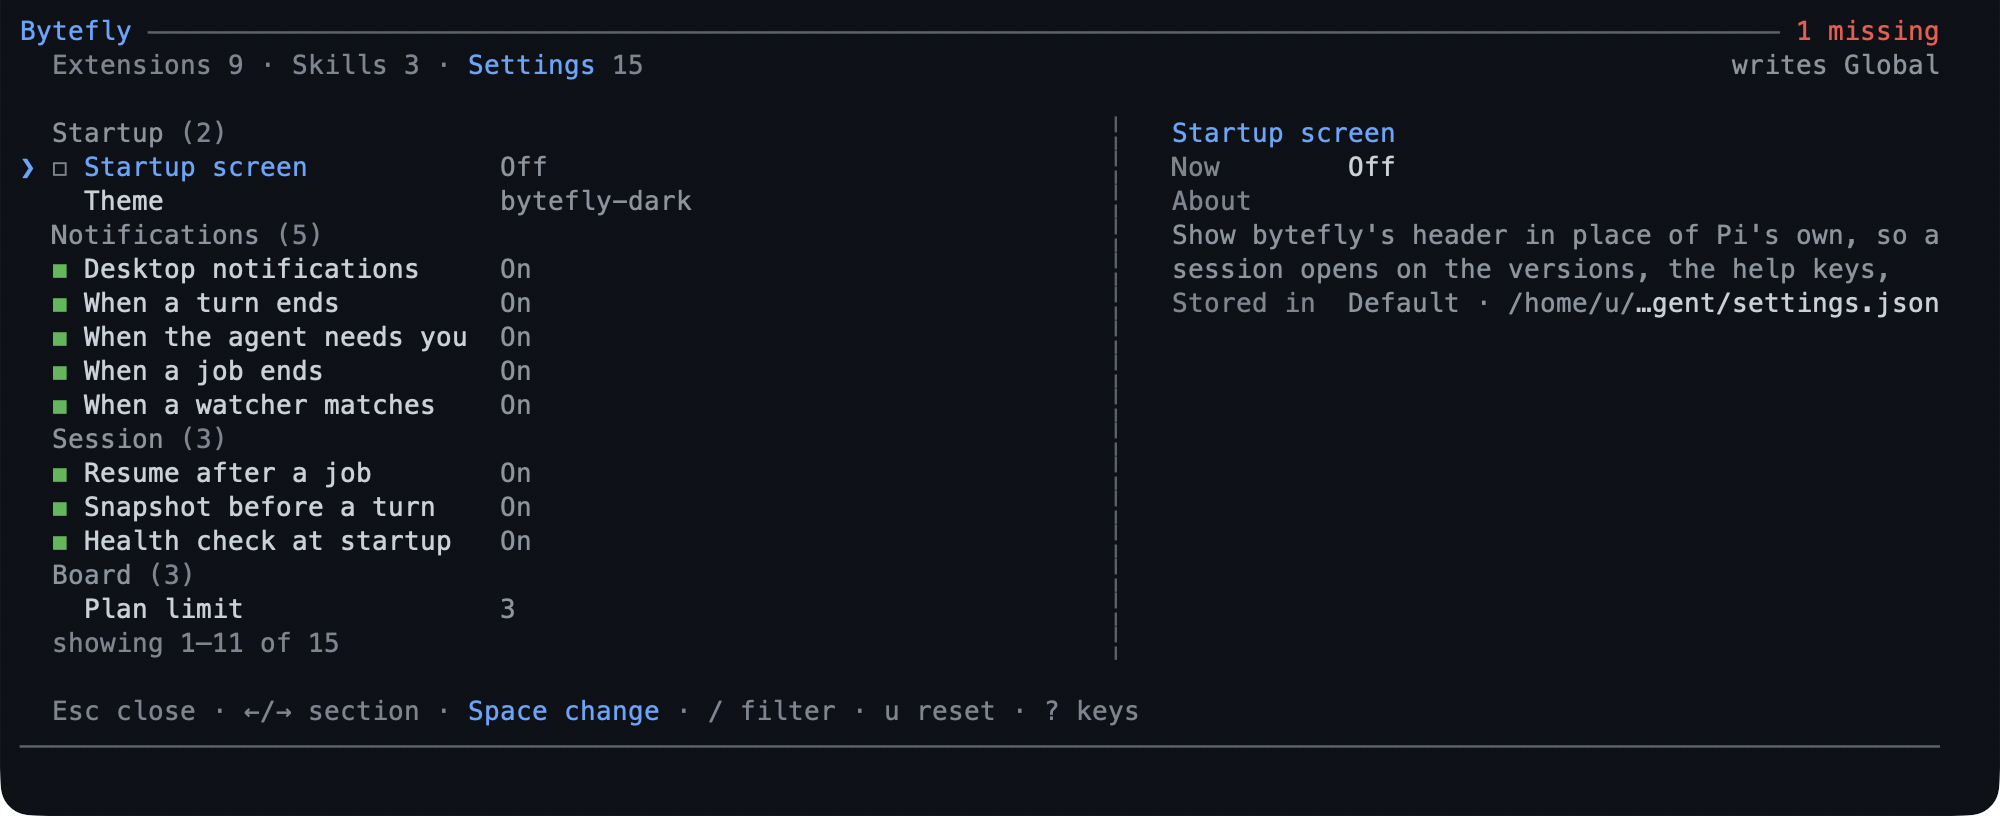
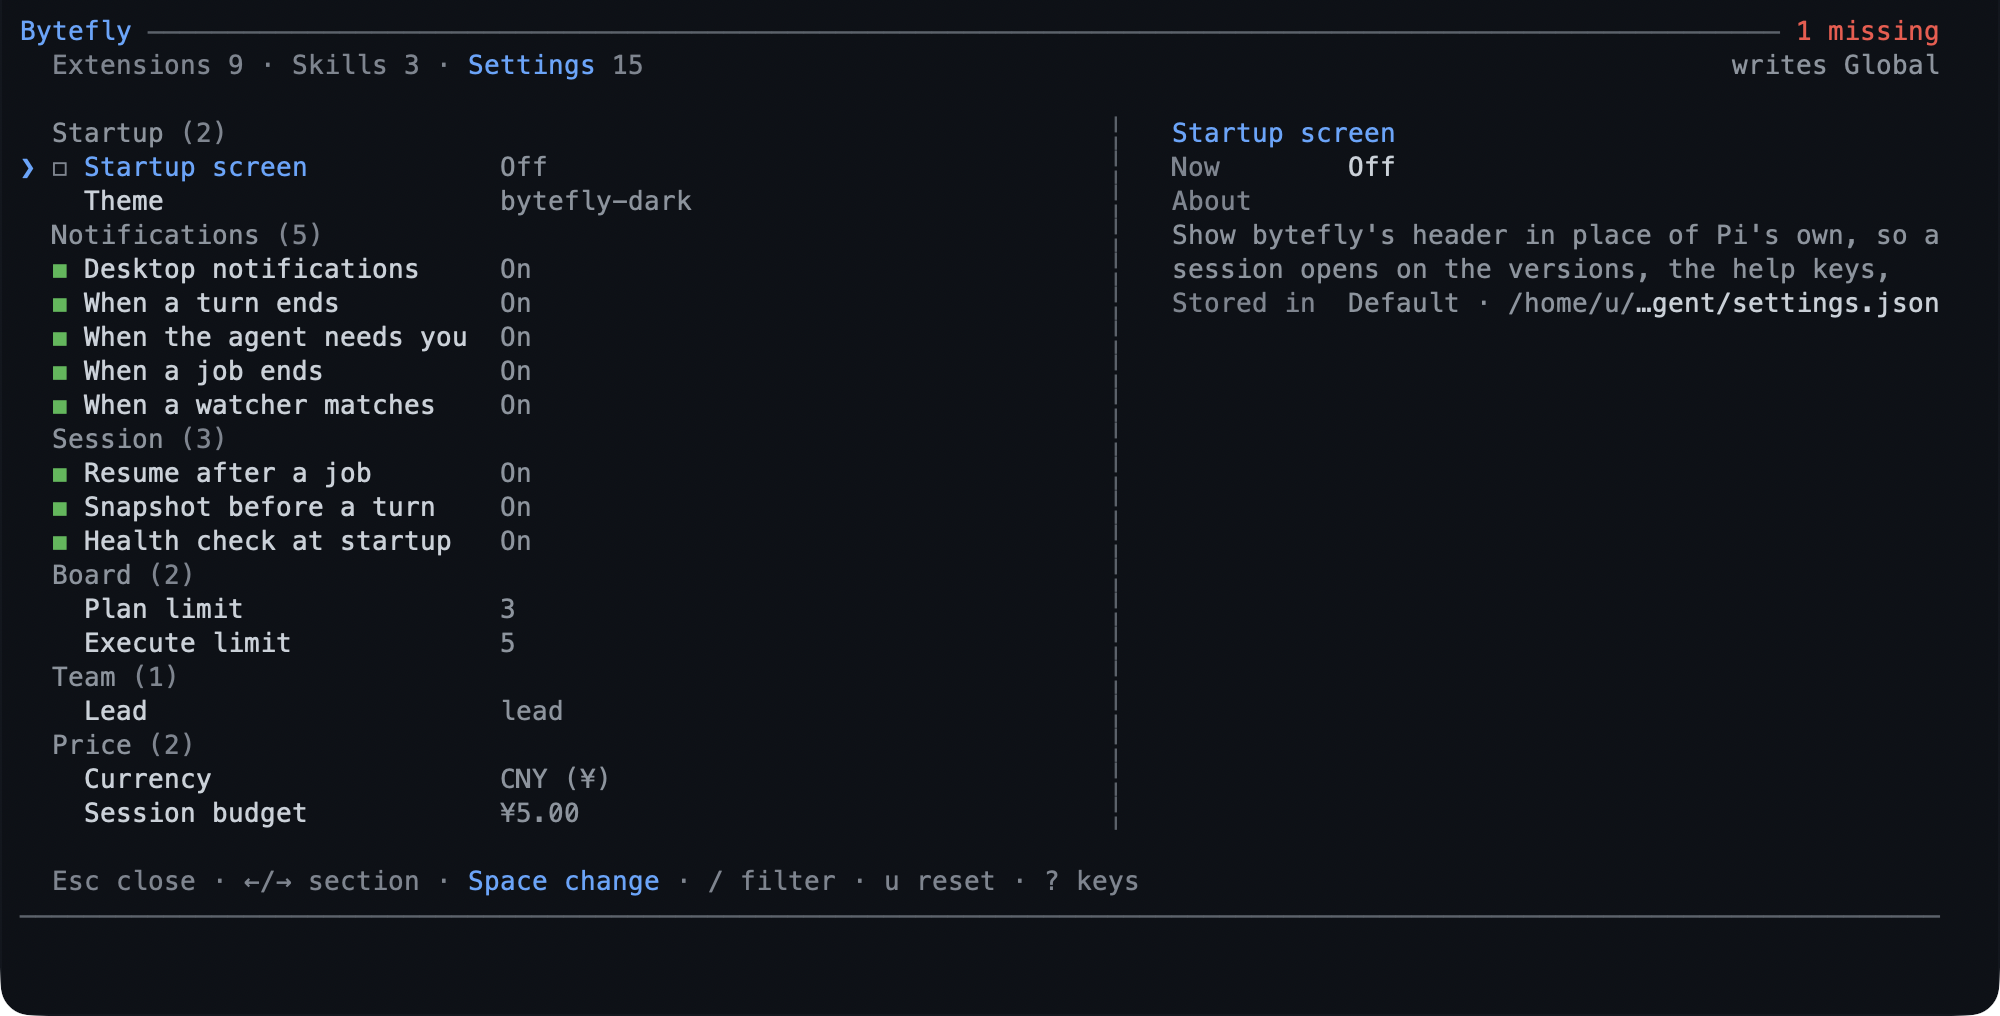
feat(bytefly): group the Lead row under a Team heading in /bytefly settings
The name the board's two gates take is the team's, not a card's, so the row
moves out of Board: Startup (2), Notifications (5), Session (3), Board (2),
Team (1), Price (2). The cap stays at fifteen rows and the catalogue now wants
a 29-row terminal to be seen whole.

The extension page's settings table lists all fifteen rows, Board's three
included, and the capture frame is tall enough to show every heading.

diff --git a/extensions/bytefly/panel/settings.ts b/extensions/bytefly/panel/settings.ts
@@ -9,7 +9,7 @@
  * The catalogue is the shortlist a session changes, not the whole document: every
  * row is one a workflow differs on, and each states its own rule so a value the
  * screen accepts is a value the loader keeps. The catalogue order is the screen's
- * order, and it is capped — fifteen rows and their five headings want a 28-row
+ * order, and it is capped — fifteen rows and their six headings want a 29-row
  * terminal, and a shorter one scrolls the list rather than the frame
  * (`settings.test.ts` holds the ceiling); a new row has to displace one. Everything else stays
  * `bytefly.json` — a list (`doctor.skip`), a table (`price.rates`), a schedule
@@ -53,11 +53,12 @@ type SettingKind = "boolean" | "enum" | "text";
 type SettingOrigin = "default" | "global" | "project" | "inherited";
 
 /**
- * The heading a row sits under. The screen draws one heading per group, so twelve
- * rows read as four short lists: what a session starts with, what it tells you
- * about, what it keeps, and what it costs.
+ * The heading a row sits under. The screen draws one heading per group, so fifteen
+ * rows read as six short lists: what a session starts with, what it tells you
+ * about, what it keeps, what its board holds, who signs for the team, and what it
+ * costs.
  */
-export type SettingGroup = "Startup" | "Notifications" | "Session" | "Board" | "Price";
+export type SettingGroup = "Startup" | "Notifications" | "Session" | "Board" | "Team" | "Price";
 
 /** One curated value a row can take. */
 interface SettingOption {
@@ -331,7 +332,7 @@ export const SETTING_ROWS: readonly SettingDescriptor[] = [
 	},
 	{
 		id: "board.lead",
-		group: "Board",
+		group: "Team",
 		label: "Lead",
 		description:
 			"The team name whose signature approves a contract and spot-checks the work; a card's holder never signs.",

diff --git a/extensions/bytefly/panel/component-settings.test.ts b/extensions/bytefly/panel/component-settings.test.ts
@@ -302,20 +302,20 @@ describe("PanelComponent settings frame", () => {
 	});
 
 	test("scrolls the list on a 24-row terminal, saying how much it shows", () => {
-		// Fifteen rows and five headings are taller than a 24-row terminal, which is the trade the
+		// Fifteen rows and six headings are taller than a 24-row terminal, which is the trade the
 		// catalogue's cap states: the screen keeps its frame and scrolls the list.
 		const { component } = buildPanel({ items: [], section: "settings", rows: 24 });
 		const lines = component.render(96);
 
 		expect(lines).toHaveLength(24);
-		expect(lines.join("\n")).toContain("showing 1–13 of 15");
+		expect(lines.join("\n")).toContain("showing 1–12 of 15");
 	});
 
 	test("fits the whole catalogue on a terminal tall enough for it", () => {
 		const { component } = buildPanel({ items: [], section: "settings", rows: 40 });
 		const lines = component.render(96);
 
-		expect(lines).toHaveLength(26);
+		expect(lines).toHaveLength(27);
 		expect(lines.join("\n")).not.toContain("showing");
 		expect(lines.join("\n")).toContain("Session budget");
 	});

diff --git a/test/settings-coverage.test.ts b/test/settings-coverage.test.ts
@@ -440,11 +440,12 @@ const STATED: readonly { file: string; phrase: string }[] = [
 	{ file: "docs/extensions/bytefly.md", phrase: `the ${count(PROJECT_ROW_COUNT)} \`bytefly.json\` rows` },
 	{ file: "docs/extensions/bytefly.md", phrase: `at ${count(ROW_COUNT)} rows so the screen fits` },
 	{ file: "docs/extensions/bytefly.md", phrase: `catalogue: the ${count(ROW_COUNT)} descriptors` },
-	{ file: "docs/configuration.md", phrase: `${count(ROW_COUNT)} rows under five headings` },
+	{ file: "docs/configuration.md", phrase: `${count(ROW_COUNT)} rows under six headings` },
 ];
 
 /** The spellings those sentences carried before the last row landed, or before a reword. */
 const STALE: readonly string[] = [
+	`${count(ROW_COUNT)} rows under five headings`,
 	`${count(ROW_COUNT)} flat rows`,
 	`${count(ROW_COUNT - 1)} preferences`,
 	`${count(ROW_COUNT - 1)} flat rows`,

diff --git a/extensions/bytefly/panel/layout.test.ts b/extensions/bytefly/panel/layout.test.ts
@@ -44,7 +44,7 @@ describe("panel entries", () => {
 		expect(entries[3] && entryKey(entries[3])).toBe("auto:/agent/extensions/a.ts");
 	});
 
-	test("groups the Settings list under its five headings, in catalogue order", () => {
+	test("groups the Settings list under its six headings, in catalogue order", () => {
 		const entries = settingEntries(settingViews(settingsSnapshot(), "global"));
 
 		expect(entries.filter((entry) => entry.kind === "group").map((entry) => entry.label)).toEqual([
@@ -52,6 +52,7 @@ describe("panel entries", () => {
 			"Notifications",
 			"Session",
 			"Board",
+			"Team",
 			"Price",
 		]);
 		expect(entries.filter((entry) => entry.kind === "setting")).toHaveLength(15);

diff --git a/scripts/screens/index.ts b/scripts/screens/index.ts
@@ -346,8 +346,10 @@ export const SCREENS: Record<string, Screen> = {
 	"bytefly-settings": {
 		asset: "bytefly-settings",
 		title: "π - my-pi-agent · /bytefly settings",
-		bounds: { left: 80, top: 80, right: 1080, bottom: 520 },
-		size: { width: 120, rows: 22 },
+		// Tall enough for the whole catalogue: six headings and their rows, so the picture
+		// shows every group rather than a list cut at the fold.
+		bounds: { left: 80, top: 80, right: 1080, bottom: 620 },
+		size: { width: 120, rows: 27 },
 		render: (width, rows) => {
 			// The Settings section over the real catalogue: no probe, no write.
 			return new PanelComponent({

diff --git a/extensions/bytefly/panel/settings.test.ts b/extensions/bytefly/panel/settings.test.ts
@@ -44,7 +44,7 @@ describe("settings catalogue", () => {
 
 	test("groups the rows as what a session starts with, tells you, keeps, and costs", () => {
 		expect(new Set(SETTING_ROWS.map((entry) => entry.group))).toEqual(
-			new Set(["Startup", "Notifications", "Session", "Board", "Price"]),
+			new Set(["Startup", "Notifications", "Session", "Board", "Team", "Price"]),
 		);
 		expect(SETTING_ROWS.map((entry) => entry.group)).toEqual([
 			"Startup",
@@ -59,7 +59,7 @@ describe("settings catalogue", () => {
 			"Session",
 			"Board",
 			"Board",
-			"Board",
+			"Team",
 			"Price",
 			"Price",
 		]);

diff --git a/docs/extensions/bytefly.md b/docs/extensions/bytefly.md
@@ -33,7 +33,7 @@ default, and from `bytefly.json` otherwise.
 |---|---|---|
 | One frame, three sections | `/bytefly`, `/bytefly skills`, `/bytefly settings` | Extensions, skills, and settings in one dock: the worst problem in the header, each section's count on the tabs, the write scope at the right, and one body height for all three, so changing section never resizes the screen. |
 | Resource rows and the block | `Space`, `Enter`, `?` | A name-first row — `worktree`, not `worktree/index.ts` — with one checkbox, one status glyph and one verdict word, and the focused row's findings, path, source, state, and health beside the list at 96 columns and under it below. |
-| Grouped settings | `/bytefly settings` | Fifteen preferences under `Startup`, `Notifications`, `Session`, `Board`, and `Price`, each value in one aligned column and editable in place; `J` shows the stored JSON section. |
+| Grouped settings | `/bytefly settings` | Fifteen preferences under `Startup`, `Notifications`, `Session`, `Board`, `Team`, and `Price`, each value in one aligned column and editable in place; `J` shows the stored JSON section. |
 | Theme selection | the `Theme` row in `/bytefly settings` | `system` and the package's `bytefly-dark` and `bytefly-light` palettes are one selection; a reload applies it. |
 | Filters and scope | `/`, `!`, `s`, `x` | Narrow the rows by text or to what needs attention — the chips on the tab row say which — and choose where a toggle lands, the personal or project `settings.json`, with `x` clearing a project override. |
 | Reload after changes | `R` | `unsaved changes` joins the header while a write is pending, and `R` reloads to apply it instead of leaving the session to be restarted by hand. |
@@ -866,10 +866,10 @@ the reason.
 
 **Settings.** The third section is the same frame over the curated preferences,
 grouped by what they do rather than by which file holds them: `Startup (2)`,
-`Notifications (5)`, `Session (3)`, `Board (3)`, and `Price (2)`. It is the
+`Notifications (5)`, `Session (3)`, `Board (2)`, `Team (1)`, and `Price (2)`. It is the
 shortlist a session changes: fifteen preferences, each with its value in one
 aligned column instead of beside its label, so a column of values can be read
-down. Twenty entries — fifteen rows and their five headings — want a 28-row
+down. Twenty-one entries — fifteen rows and their six headings — want a 29-row
 terminal to be seen whole when the block sits beside the list; on a shorter or
 narrower one the list scrolls, says `showing 1–13 of 15`, and the block keeps its
 three rows. The frame never grows past the tallest section, however
@@ -883,7 +883,7 @@ description, and `Stored in <origin> · <file>` — `Global`, `Project`,
 otherwise). `J` on a `bytefly.json` row appends that section as the active scope
 stores it, under a `── notify ──` rule.
 
-<img src="../../assets/screens/bytefly-settings.png" alt="The /bytefly Settings section at 120 columns: the `Startup (2)`, `Notifications (5)`, `Session (3)`, `Board (3)` and `showing 1–11 of 15` rows with each value in one aligned column, the `Extensions 9 · Skills 3 · Settings 15` tabs with `writes Global` at the right, and the focused row's block beside the list — its value, description, and the file the value is stored in" width="100%">
+<img src="../../assets/screens/bytefly-settings.png" alt="The /bytefly Settings section at 120 columns: the `Startup (2)`, `Notifications (5)`, `Session (3)`, `Board (2)`, `Team (1)` and `Price (2)` headings with all fifteen rows and each value in one aligned column, the `Extensions 9 · Skills 3 · Settings 15` tabs with `writes Global` at the right, and the focused row's block beside the list — its value, description, and the file the value is stored in" width="100%">
 
 | Group | Row | Source | Values |
 |---|---|---|---|
@@ -897,6 +897,9 @@ stores it, under a `── notify ──` rule.
 | Session | Resume after a job | `job.wakeOnFinish` | Off, On |
 | Session | Snapshot before a turn | `rewind.autoSnapshots` | Off, On |
 | Session | Health check at startup | `doctor.proactive` | Off, On |
+| Board | Plan limit | `board.wip.plan` | a whole number, 1 to 20 |
+| Board | Execute limit | `board.wip.execute` | a whole number, 1 to 20 |
+| Team | Lead | `board.lead` | a team name, up to 40 characters |
 | Price | Currency | `price.currency.code` | `CNY (¥)`, `USD ($)` |
 | Price | Session budget | `price.budget` | `Off`, or the amount as `¥5.00` |
 
@@ -914,8 +917,8 @@ and is replaced by the next choice here, so manage those in Pi's `/settings` →
 **Theme**.
 
 `Space` (or `Enter`) changes the focused row: a boolean toggles, an enum cycles
-forward, and the one text row — **Session budget** — opens an inline editor on its
-amount. `u` deletes the focused row's key so its default applies again (`<row>
+forward, and a text row — **Plan limit**, **Execute limit**, **Lead**, or **Session
+budget** — opens an inline editor on its value. `u` deletes the focused row's key so its default applies again (`<row>
 is already at its default.` when nothing is stored in that scope; an inherited
 Project value says so instead, and an app row answers that Pi has no unset), and
 `J` appends the focused row's whole section as the active scope stores it — the
@@ -923,7 +926,7 @@ only view of the keys this screen leaves to JSON. A successful change marks the
 block `Saved · reload to apply` and puts `unsaved changes` in the header, and
 closing offers the same reload confirm as an extension or skill toggle.
 
-The list is capped at fifteen rows so the screen keeps fitting a 28-row
+The list is capped at fifteen rows so the screen keeps fitting a 29-row
 terminal: adding a setting means removing one (`panel/settings.test.ts` holds the
 ceiling, and a 24-row terminal scrolls the list rather than the frame). Everything
 else stays in `bytefly.json` — the tuning numbers, the
@@ -1231,7 +1234,7 @@ why the line says so, and each source the manager reports is shown while it runs
 - **The list is a shortlist, not the whole document.** A row is one boolean,
   enum, string, or number; the tuning numbers, the labels, and the Pi
   preferences `/settings` owns stay in their files, and the catalogue is capped
-  at fifteen rows so the screen fits a 28-row terminal. `doctor.skip` (an
+  at fifteen rows so the screen fits a 29-row terminal. `doctor.skip` (an
   array), the `rates` table, and `price.peak` (a nested object) could never be a
   row; the rest are declared JSON-only with their reason in
   `test/settings-coverage.test.ts`.
@@ -1745,7 +1748,7 @@ columns, gauge), so the look follows the active theme.
 | `panel/kit.ts` | What `/bytefly` reads only once it opens: the listing text, the panel and skills models, the price report, and the shipped theme names, re-exported so `commands.ts` can hold them behind one `import()` instead of in every start's registration graph. |
 | `panel/filter.ts` | The two filters as predicates and chips: a text query over a row's name, path, and source, the attention switch, and what the tab row says is on. |
 | `panel/format.ts` | Non-TUI text: the resource headline and grouped listing with a per-row verdict, the header's attention segments, the one `rowBadge` the screen and the listing share, the section segments and their order, the Settings counts/headline, and the flat Settings listing. |
-| `panel/settings.ts` | The curated Settings catalogue: the fifteen descriptors in screen order, their five groups, the value labels (`Off`, `¥5.00`) and display origins, value cycling, stored-value mapping, validation, plus the per-section readers that resolve a row's leaf over the global and project documents. |
+| `panel/settings.ts` | The curated Settings catalogue: the fifteen descriptors in screen order, their six groups, the value labels (`Off`, `¥5.00`) and display origins, value cycling, stored-value mapping, validation, plus the per-section readers that resolve a row's leaf over the global and project documents. |
 | `panel/settings-runtime.ts` | The Settings runtime: snapshot cache, scope guards, app setters, per-leaf `bytefly.json` writes, dirty state, and change listeners. |
 | `panel/themes.ts` | Which themes the Theme row offers: the host's resolved list narrowed to the palettes under this package's `themes/`, identified by directory rather than name. |
 | `panel/prices.ts` | The `/bytefly prices` report: the unpriced models by key, the records behind each, and the one line saying where the keys go. It quotes no price — a rate is the user's to state. |

diff --git a/docs/configuration.md b/docs/configuration.md
@@ -154,7 +154,7 @@ the file for the scope you want, and the next session reads it.
 | raise the board's WIP limits, or name the team lead whose signature the board's gates take | **Plan limit**, **Execute limit**, **Lead** in `/bytefly settings`, or `board` below |
 
 `/bytefly settings` is a shortlist of the preferences a session changes — fifteen
-rows under five headings (Startup, Notifications, Session, Board, and Price), named in
+rows under six headings (Startup, Notifications, Session, Board, Team, and Price), named in
 bold above. Everything else — the tuning numbers, the
 cosmetic labels, and the settings Pi's own `/settings` owns — is the file or Pi's
 screen; the rest of this page is the full list.
@@ -216,7 +216,8 @@ repository root rather than the active working directory.
 ## `board` — the shared feature board
 
 The board's own section: how many cards a lane holds, and the team name whose signature its two
-gates take. `/bytefly settings` edits all three. The section is read once, when the board's
+gates take. `/bytefly settings` edits all three — the two numbers under `Board` and the name
+under `Team`. The section is read once, when the board's
 store opens, so a change lands at the next session.
 
 | Key | Type | Default | Values | What it does |

diff --git a/docs/extensions/team.md b/docs/extensions/team.md
@@ -82,7 +82,7 @@ its surface is the point: `board` and `team` join this session for you.
 
 | You are | Action | What happens |
 |---|---|---|
-| The lead | `/board` | The session joins as the board's lead (`board.lead`, `lead` by default) — the name the page serves as — and listens, so a handoff or an offer is reported at its next turn |
+| The lead | `/board` | The session joins as the board's lead (`board.lead`, `lead` by default, edited under **Team** in `/bytefly settings`) — the name the page serves as — and listens, so a handoff or an offer is reported at its next turn |
 | The lead, handing work out | `team` action `assign`, or the cardless `ask` | The session joins under the name it already holds and listens, so the peer's question, or its request for a sign, is reported at the lead's next turn — the same join a claim makes, once per session |
 | A teammate | the first card it claims | The session joins under the name it already holds, or a preset teammate name (`tom`, `lily`, `ben`) when it has none, and listens; Pi's footer keeps the name it already had |
 | A teammate who wants a name | `/team join billing-core` | The session joins as `billing-core`, and Pi's footer and `/resume` show that name — the one join that renames |

diff --git a/CHANGELOG.md b/CHANGELOG.md
@@ -6,6 +6,13 @@ to [Semantic Versioning](https://semver.org/spec/v2.0.0.html).
 
 ## [Unreleased]
 
+- `bytefly`: `/bytefly settings` groups its fifteen rows under six headings — **Lead** moves out
+  of `Board` into its own `Team` group beside it, because the name the board's two gates take is
+  the team's rather than a card's. `Board` keeps the two WIP limits (`Board (2)`), the cap stays
+  at fifteen rows, and the screen wants a 29-row terminal to be seen whole.
+- docs: the extension page's Settings table lists all fifteen rows, `Board`'s three among them,
+  where it had listed twelve under a prose count of fifteen.
+
 - `board`: the work list and `team`'s lead round load like every other extension, so a
   session that never works a card carries their tool and command anyway, and
   `PI_DISABLED_EXTENSIONS` is the way to refuse them. `PI_ENABLED_EXTENSIONS`, the

diff --git a/README.zh-CN.md b/README.zh-CN.md
@@ -67,7 +67,7 @@ Windows、macOS 和 Linux 均可运行，完整检查套件在每个平台上都
   结论词，启用或禁用一个扩展，并用 `x` 清除项目级覆盖；`/` 过滤行，`!` 只保留
   需要注意的行，`?` 显示全部按键。
 - `/bytefly settings` 打开控制中心的 Settings 区：一次会话会改动的十五项设置按
-  Startup、Notifications、Session、Board、Price 五组排列，值对齐在同一列；用
+  Startup、Notifications、Session、Board、Team、Price 六组排列，值对齐在同一列；用
   `Space`/`Enter` 修改一项，用 `s` 切换 Global/Project 作用域。其余键都是
   `bytefly.json` 编辑，见配置参考。
 - `/bytefly skills` 打开控制中心的 Skills 区：每个 Pi 技能一行，带启用复选框与

diff --git a/README.md b/README.md
@@ -77,7 +77,7 @@ Then, from inside Pi:
   key.
 - `/bytefly settings` opens the control center's Settings section: the fifteen
   preferences a session changes, grouped under Startup, Notifications, Session,
-  Board, and Price with each value in an aligned column, `Space`/`Enter` to change
+  Board, Team, and Price with each value in an aligned column, `Space`/`Enter` to change
   one and `s` for Global/Project scope. Every other key is a `bytefly.json` edit,
   listed in the configuration reference.
 - `/bytefly skills` opens the control center's Skills section: one row per Pi
